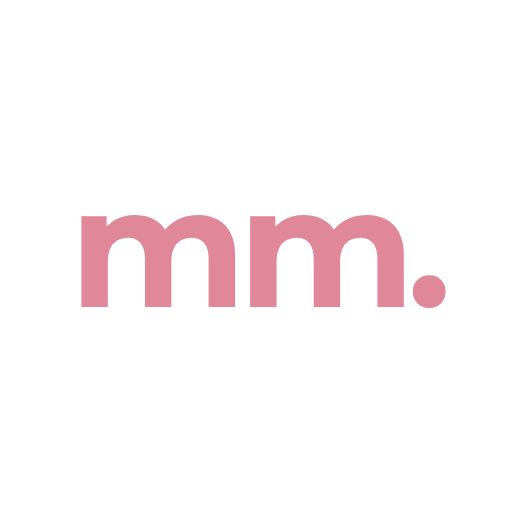
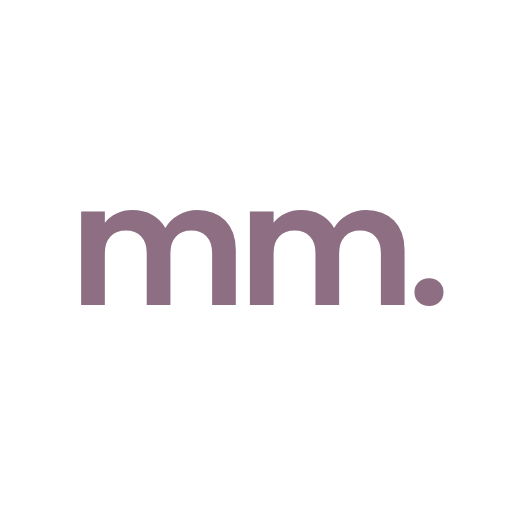
feat(lettre-ia): nouvelle charte graphique (mauve poudré, beige lin, Poppins et Open Sans)
Claude-Session: https://claude.ai/code/session_019aGyxTTTDZYPrTb94CXGT4

Changed region(s): [[0.1562, 0.4062, 0.875, 0.625]]

diff --git a/lettre-ia/app/globals.css b/lettre-ia/app/globals.css
@@ -1,29 +1,37 @@
 :root {
-  --bg: #fcfbf9;
+  /* Charte « mymotiv. » : mauve poudré, beige lin, gris charbon sur fond crème. */
+  --bg: #f9f7f2; /* Crème chaud */
   --surface: #ffffff;
-  --text: #2d3748;
-  --muted: #5b6474;
-  --border: #e3dfd6;
-  --accent: #1b4332;
+  --text: #333333; /* Gris charbon doux */
+  --muted: #5f5a56;
+  --border: #e4ddd3;
+  --brand: #8e6e82; /* Mauve poudré : logo et titres */
+  /* Boutons et liens : le même mauve, à peine plus profond pour que le texte blanc reste lisible (contraste AA). */
+  --accent: #876779;
   --accent-text: #ffffff;
-  --accent-soft: #e3eee7;
+  --accent-soft: #efe8e0; /* Beige lin très clair : survols, pastilles */
+  --beige: #c8b7a6; /* Beige lin : encarts et zones d'import */
+  --on-beige: #333333;
   --danger: #b3261e;
   --radius: 14px;
-  --brand: #e08799;
-  --font-brand: "Montserrat", system-ui, -apple-system, "Segoe UI", Roboto, sans-serif;
+  --font-brand: "Poppins", system-ui, -apple-system, "Segoe UI", Roboto, sans-serif;
+  --font-body: "Open Sans", system-ui, -apple-system, "Segoe UI", Roboto, sans-serif;
   color-scheme: light;
 }
 
 @media (prefers-color-scheme: dark) {
   :root {
-    --bg: #141715;
-    --surface: #1d211f;
-    --text: #e9ece9;
-    --muted: #a3aba5;
-    --border: #333a36;
-    --accent: #8fcfae;
-    --accent-text: #0f1f17;
-    --accent-soft: #1f3128;
+    --bg: #1a1618;
+    --surface: #241f22;
+    --text: #ece6e9;
+    --muted: #b5aaa9;
+    --border: #3b3337;
+    --brand: #d2b3c6;
+    --accent: #c9a7bc;
+    --accent-text: #241a20;
+    --accent-soft: #30282c;
+    --beige: #4a4038;
+    --on-beige: #f1ebe4;
     --danger: #ff8a80;
     color-scheme: dark;
   }
@@ -35,7 +43,7 @@ body {
   margin: 0;
   background: var(--bg);
   color: var(--text);
-  font: 16px/1.5 system-ui, -apple-system, "Segoe UI", Roboto, sans-serif;
+  font: 16px/1.55 var(--font-body);
 }
 
 main {
@@ -44,8 +52,9 @@ main {
   padding: 32px 16px 48px;
 }
 
-/* Titres dans la police de la marque (Montserrat), comme le logo. */
-h1, h2, h3, .title { font-family: var(--font-brand); font-weight: 700; letter-spacing: -0.01em; }
+/* Titres en Poppins semi-gras, comme le logo. */
+h1, h2, h3, .title { font-family: var(--font-brand); font-weight: 600; letter-spacing: -0.01em; }
+.card h2 { color: var(--brand); }
 
 /* En-tête : sur ordinateur, menu en haut à droite puis logo ; sur téléphone, logo + menu hamburger. */
 .site-header { display: flex; flex-direction: column; }
@@ -56,8 +65,8 @@ h1, h2, h3, .title { font-family: var(--font-brand); font-weight: 700; letter-sp
 
 .hero { margin-bottom: 24px; }
 .site-header h1 { margin: 0 0 4px; font-size: 2rem; letter-spacing: -0.02em; }
-/* Logo « mymotiv. » : police Montserrat, rose de la marque. */
-.site-header h1.logo { font-family: var(--font-brand); font-weight: 700; font-size: 2.6rem; line-height: 1.1; letter-spacing: -0.01em; color: var(--brand); }
+/* Logo « mymotiv. » : Poppins, mauve poudré. */
+.site-header h1.logo { font-family: var(--font-brand); font-weight: 600; font-size: 2.6rem; line-height: 1.1; letter-spacing: -0.01em; color: var(--brand); }
 .sr-only { position: absolute; width: 1px; height: 1px; padding: 0; margin: -1px; overflow: hidden; clip: rect(0 0 0 0); white-space: nowrap; border: 0; }
 .hero-title { position: relative; display: inline-block; max-width: 100%; }
 
@@ -121,7 +130,7 @@ h1, h2, h3, .title { font-family: var(--font-brand); font-weight: 700; letter-sp
   outline: none;
 }
 .dropzone strong { overflow-wrap: anywhere; }
-.dropzone span { color: var(--muted); font-size: 0.875rem; }
+.dropzone span { color: var(--on-beige); opacity: 0.85; font-size: 0.875rem; }
 
 textarea, input {
   width: 100%;
@@ -297,8 +306,8 @@ main.narrow { max-width: 520px; }
   margin-top: 12px !important;
   padding: 6px 12px;
   border-radius: 999px;
-  background: var(--accent-soft);
-  color: var(--text) !important;
+  background: var(--beige);
+  color: var(--on-beige) !important;
   font-size: 0.9rem;
   font-weight: 500;
 }
@@ -369,23 +378,21 @@ button.danger { color: var(--danger); }
 
 /* Textures des cases CV et offre (tons sobres) */
 :root {
-  --cv-bg: #eef3f0;
-  --cv-line: rgba(47, 93, 80, 0.07);
-  --cv-edge: #cfdcd5;
-  --offer-bg: #f5f1e8;
-  --offer-line: rgba(120, 98, 62, 0.07);
-  --offer-edge: #e2d9c6;
-  --doc-zone: rgba(255, 255, 255, 0.6);
+  --cv-bg: #f4eff2;
+  --cv-line: rgba(142, 110, 130, 0.08);
+  --cv-edge: #e3d6de;
+  --offer-bg: #f4efe8;
+  --offer-line: rgba(140, 115, 90, 0.08);
+  --offer-edge: #e2d6c8;
 }
 @media (prefers-color-scheme: dark) {
   :root {
-    --cv-bg: #1b2420;
-    --cv-line: rgba(127, 191, 169, 0.06);
-    --cv-edge: #2c3a33;
-    --offer-bg: #23211b;
-    --offer-line: rgba(214, 190, 140, 0.06);
-    --offer-edge: #3a352a;
-    --doc-zone: rgba(0, 0, 0, 0.22);
+    --cv-bg: #241d21;
+    --cv-line: rgba(210, 179, 198, 0.06);
+    --cv-edge: #3a2f35;
+    --offer-bg: #26211d;
+    --offer-line: rgba(200, 183, 166, 0.06);
+    --offer-edge: #3c342d;
   }
 }
 /* CV : fines lignes horizontales, façon papier réglé, teinte sauge. */
@@ -400,7 +407,9 @@ button.danger { color: var(--danger); }
   background-image: repeating-linear-gradient(45deg, var(--offer-line) 0 1px, transparent 1px 9px);
   border-color: var(--offer-edge);
 }
-.doc .dropzone { background: var(--doc-zone); }
+/* Zone d'import : fond beige lin, contour pointillé gris charbon. */
+.doc .dropzone { background: var(--beige); color: var(--on-beige); border: 2px dashed var(--on-beige); border-color: color-mix(in srgb, var(--on-beige) 55%, transparent); }
+.doc .dropzone:hover, .doc .dropzone.dragging, .doc .dropzone:focus-visible { border-color: var(--accent); background: color-mix(in srgb, var(--beige) 80%, var(--surface)); }
 .doc textarea { background: var(--surface); }
 
 /* Infobulle du bouton d'essai */
@@ -701,7 +710,7 @@ button.danger { color: var(--danger); border-color: var(--danger); background: t
     background: var(--bg);
   }
   .extras-toggle span:first-child { white-space: nowrap; }
-  .extras-toggle span + span { flex: 1; font-family: system-ui, -apple-system, "Segoe UI", Roboto, sans-serif; font-weight: 400; }
+  .extras-toggle span + span { flex: 1; font-family: var(--font-body); font-weight: 400; }
   .extras-toggle::after { content: "▾"; color: var(--accent); transition: transform 0.2s; }
   .extras-toggle[aria-expanded="true"]::after { transform: rotate(180deg); }
   .options-extra { display: none; }

diff --git a/lettre-ia/app/layout.tsx b/lettre-ia/app/layout.tsx
@@ -1,6 +1,9 @@
 import type { Metadata, Viewport } from "next";
-import "@fontsource/montserrat/600.css";
-import "@fontsource/montserrat/700.css";
+import "@fontsource/open-sans/latin-400.css";
+import "@fontsource/open-sans/latin-600.css";
+import "@fontsource/open-sans/latin-700.css";
+import "@fontsource/poppins/latin-500.css";
+import "@fontsource/poppins/latin-600.css";
 import "./globals.css";
 import TabBar from "@/components/TabBar";
 import { SITE_URL } from "@/lib/site";
@@ -20,7 +23,7 @@ export const metadata: Metadata = {
     locale: "fr_FR",
     title: "MyMotiv — Votre lettre de motivation en 5 clics",
     description: DESCRIPTION,
-    images: [{ url: "/og.png", width: 1200, height: 630, alt: "MyMotiv : votre lettre de motivation, précise et personnelle" }],
+    images: [{ url: "/og.png", width: 1200, height: 630, alt: "MyMotiv : votre lettre de motivation en 5 clics" }],
   },
   twitter: { card: "summary_large_image", images: ["/og.png"] },
   manifest: "/manifest.webmanifest",
@@ -33,7 +36,7 @@ export const viewport: Viewport = {
   initialScale: 1,
   // Le site occupe tout l'écran (encoche, barre d'accueil de l'iPhone) : les marges de sécurité sont gérées en CSS.
   viewportFit: "cover",
-  themeColor: "#1b4332",
+  themeColor: "#8e6e82",
 };
 
 export default function RootLayout({ children }: { children: React.ReactNode }) {
